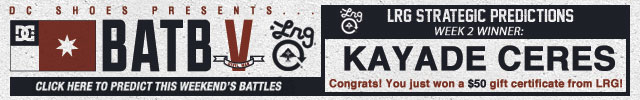
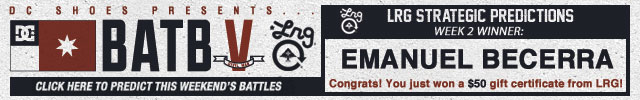
update batb5 winner update batb5 bracket CSS

Changed region(s): [[0.5312, 0.45, 0.9688, 0.72]]

diff --git a/theberrics.com/public_html/app/webroot/theme/battle-at-the-berrics-5/css/section.css b/theberrics.com/public_html/app/webroot/theme/battle-at-the-berrics-5/css/section.css
@@ -613,7 +613,7 @@ VOTING BUTTONS
 }
 .match_4_4 .spacer {
 	
-	height:39px;	
+	height:52px;	
 	
 }
 
@@ -626,7 +626,7 @@ VOTING BUTTONS
 }
 .match_4_5  .spacer {
 
-	height:39px;	
+	height:52px;	
 	
 }
 
